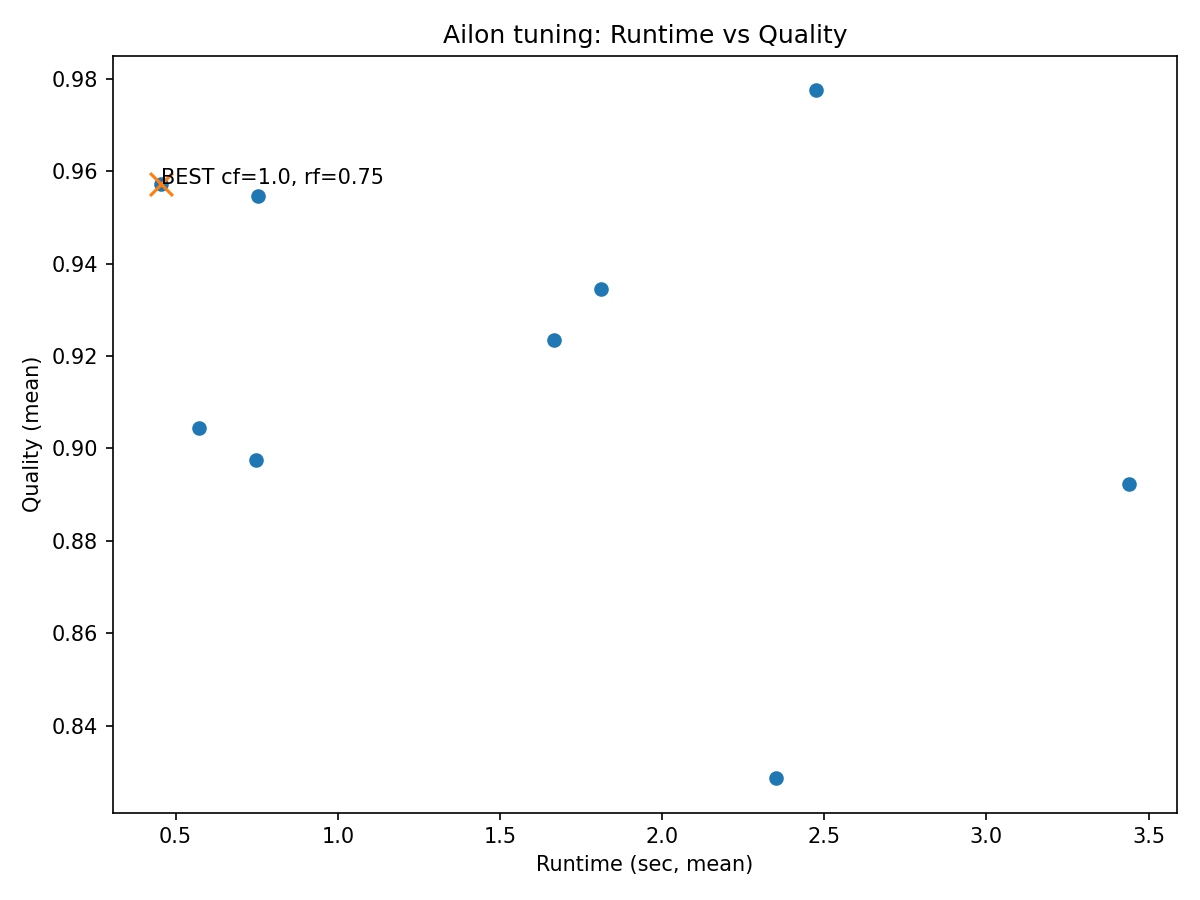
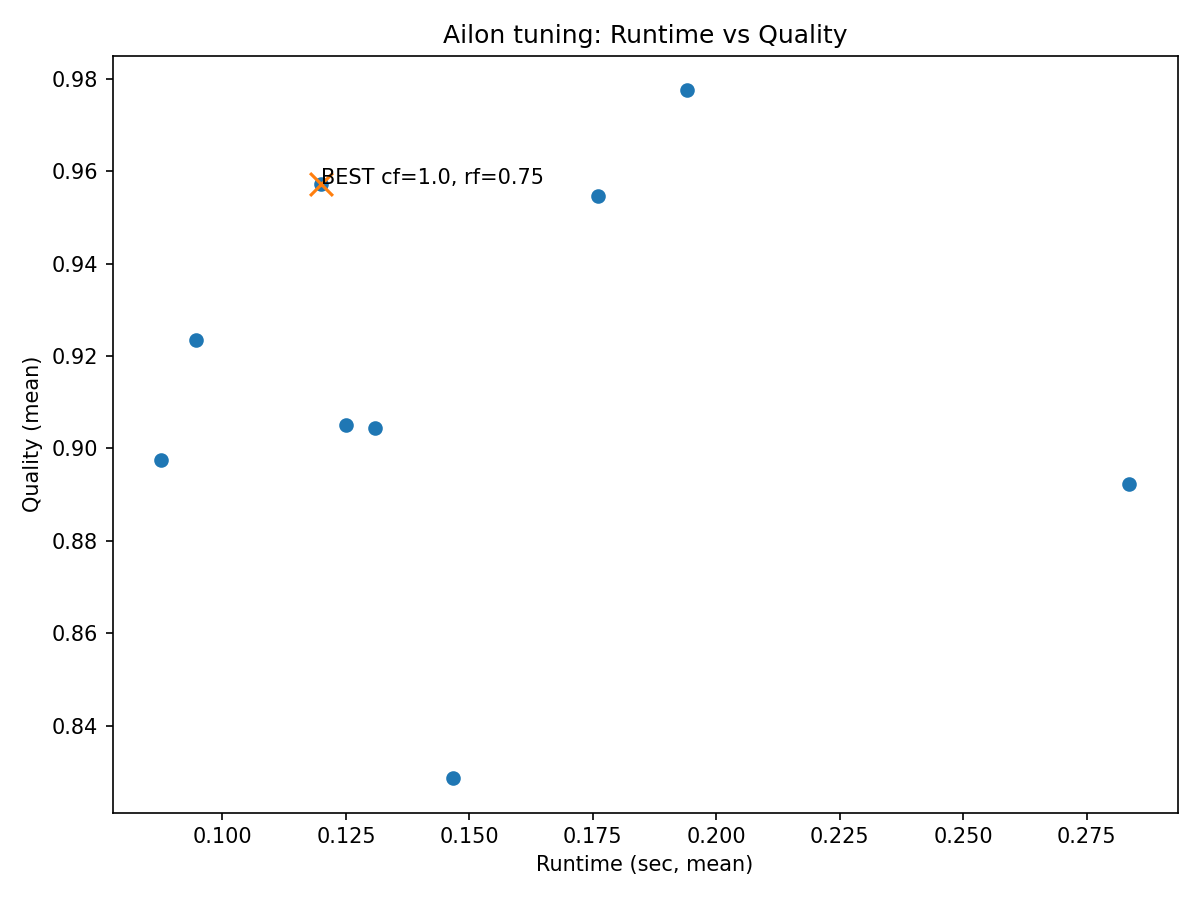
updated new files in imports

diff --git a/tuned_utils.py b/tuned_utils.py
@@ -10,7 +10,7 @@ from charikar_streaming_new import Charikar_KMeans
 from guha_tuning import tune_guha_parameters
 from ailon_tuning import tune_ailon_parameters
 from boutsidis_tuning import tune_boutsidis_parameters
-from charikar_tuned import tune_charikar_parameters
+from charikar_tuning import tune_charikar_parameters
 from results import Algo
 from sklearn.datasets import make_blobs
 

diff --git a/charikar_tuning.py b/charikar_tuning.py
@@ -6,7 +6,7 @@ import numpy as np
 import pandas as pd
 from sklearn.datasets import make_blobs
 
-from charikar_streaming import Charikar_KMeans
+from charikar_streaming_new import Charikar_KMeans
 from utils import extract_quality, pick_best_overall
 matplotlib.use("Agg")
 import matplotlib.pyplot as plt

diff --git a/ailon_tuning.py b/ailon_tuning.py
@@ -3,7 +3,7 @@ import json
 import numpy as np
 import pandas as pd
 import matplotlib.pyplot as plt
-from ailon_streaming import Ailon_Coreset
+from ailon_streaming_new import Ailon_Coreset
 from sklearn.datasets import make_blobs
 from utils import extract_quality, pick_best_overall
 

diff --git a/boutsidis_tuning.py b/boutsidis_tuning.py
@@ -6,7 +6,7 @@ import numpy as np
 import pandas as pd
 from sklearn.datasets import make_blobs
 
-from boutsidis_streaming import Boutsidis_Streaming
+from boutsidis_streaming_new import Boutsidis_Streaming
 from utils import extract_quality, pick_best_overall
 
 matplotlib.use("Agg")

diff --git a/guha_tuning.py b/guha_tuning.py
@@ -6,7 +6,7 @@ import matplotlib
 matplotlib.use("Agg")
 import matplotlib.pyplot as plt
 from sklearn.datasets import make_blobs
-from guha_streaming import Guha_Stream_KMeans
+from guha_streaming_new import Guha_Stream_KMeans
 from utils import extract_quality, pick_best_overall
 
 
